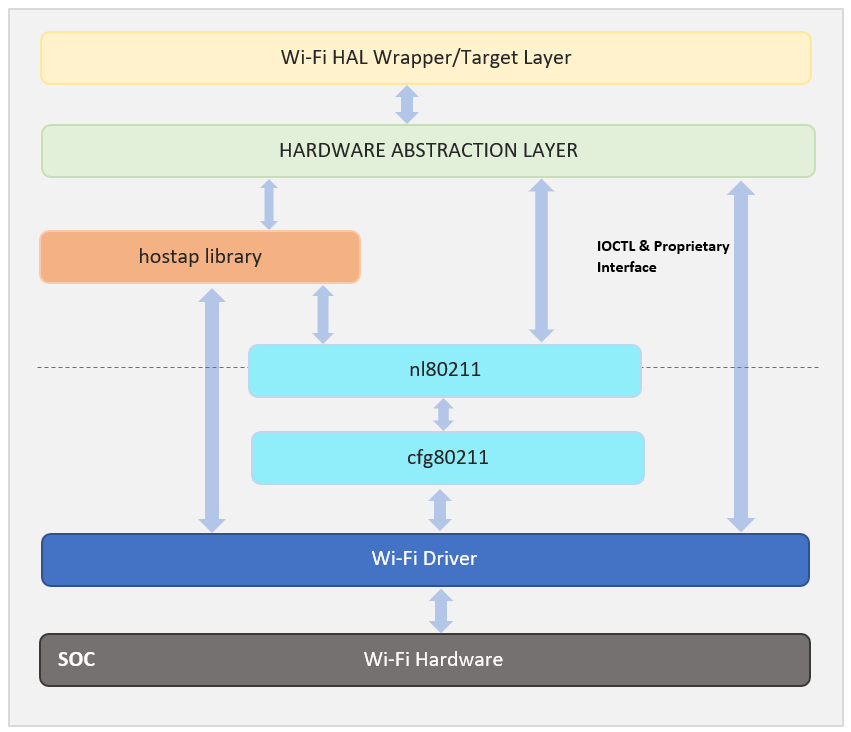
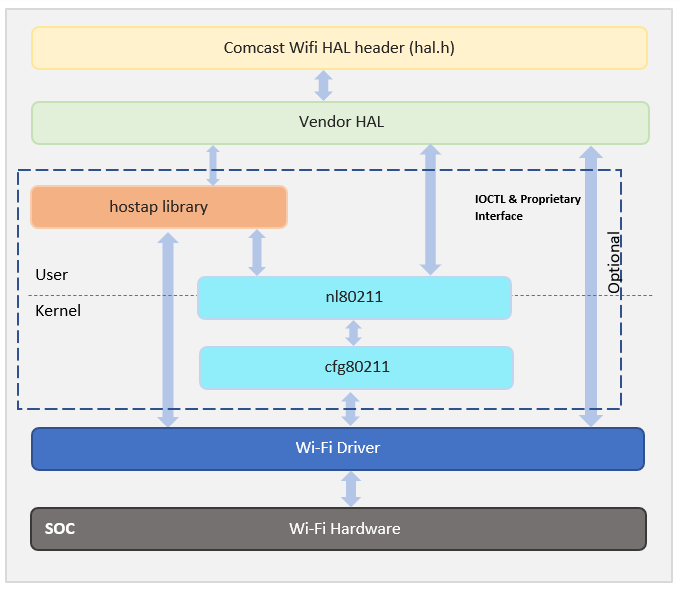
RDKB-43403: Block diagram and review comments updated

diff --git a/docs/pages/halSpec.md b/docs/pages/halSpec.md
@@ -5,7 +5,7 @@
 
 | Date | Author | Comment | Version |
 | --- | --- | --- | --- |
-| 08/16/22 | M. Kandasamy | Block diagram updated | 0.0.1 |
+| 08/16/22 | M. Kandasamy | Block diagram updated | 0.0.2 |
 
 ## Acronyms
 
@@ -23,12 +23,17 @@
 
 The Hardware Abstraction Layer (HAL) is to abstract the RDK Wi-Fi requirements at a general level to allow platform independent control.
 
-The picture below shows the relationship between the `HAL` and the `Kernel` and `WiFi Driver`.
+The picture below shows the relationship between the `HAL`, `Kernel` and the `WiFi Driver`.
 ![WiFi HAL](images/WifiHALDiagram.PNG)
 
-`hostapd` (host access point daemon) is a user space daemon software enabling a network interface card to act as an access point and authentication server
+## Optional Components
 
-`nl80211` is the interface between user space software (iw etc.) and the kernel (cfg80211 and mac80211 kernel modules, and specific drivers)
+The following components are optional and its upto vendors discretion.
+
+- `hostapd` (host access point daemon) is a user space daemon software enabling a network interface card to act as an access point and authentication server
+
+- `nl80211/cfg80211` nl80211 is the interface between user space software (iw etc.) and the kernel (cfg80211 and mac80211 kernel modules, and specific drivers)
+
 
 # Component Runtime Execution Requirements
 
@@ -52,14 +57,14 @@ There is no restriction on the vendor to create any number of threads to meet th
 
 ## Process Model
 
-A single instance is expected to exist. And only once instance will be initialised.
+A single instance is expected to exist. And only one instance will be initialised.
 
 ## Memory Model
 
 Where `HAL` creates any memory, then `HAL` will be expected to own it.
 Where `client` creates memory, then `client` is expected to own it.
 
-Expectation to the rules above are specified in the API documentation.
+Exceptions to these rules can be specified in the API documentation.
 
 ## Power Management Requirements
 
@@ -83,11 +88,11 @@ During callbacks the client is responsible for create a copy of data, unless oth
 
 ## Blocking calls
 
-The blocking calls documented in the API documetation, they are tagged with the `@execution blocks/blocking` token in the documentation.
+None of the calls in the interface should block.
 
 ## Internal Error Handling
 
-All the APIs define a list return codes, each API must be capable of returning all of the codes defined, the `HTS` if possible, will create cases
+All the APIs define a list of return codes, each API must be capable of returning all of the codes defined, the `HTS` if possible, will create cases
 for the error codes to be exercised.
 
 HAL is responsible to handle system errors (e.g., failure of memory allocation, array boundary out of memory, return code check), and returning
@@ -95,15 +100,7 @@ only the fixed returned codes as defined in the `API` specification.
 
 ## Persistence Model
 
-WiFi HAL interface expected to persist configuration set by calls to the HAL interface.
-
-This configuration should also persist if the device firmware upgraded or downgraded.
-
-During the initialization, the driver will retrieve configuration and re-apply it.
-
-The vendor must have the capability of a separate factory reset configuration; this will be configured at factory programming.
-
-A reset flag is normally read during boot initialization and apply the configuration accordingly.
+Wifi HAL configuration will be maintained by upper layer.
 
 # Non functional requirements
 
@@ -114,30 +111,24 @@ Following non-functional requirement should be supported by the component.
 The component should log all the error and critical informative messages.
 This helps to debug/triage the issues and understand the functional flow of the system.
 
-The log files have naming convention depends upon the type of log. 
+The logging should be consistance across all HAL components.
 
-There are few requirements of redirecting logs to specified files.
+If the vendor is going to log then it has to be logged in `wifi_vendor_hal.log` file name.
 
-E.g.
-
-1. Wifi initialization log file name - WiFilog.txt.0
-2. Wifi telemetry related log file name - wifihealth.txt
-3. Device Image version - version.txt
-4. Wifi HAL log file name - wifi_vendor_hal.log
-
+Logging should be defined with log levels as per Linux standard logging.
 ## Memory and performance requirements
 
 During idle and Standby, memory and CPU utilization will be a minimal footprint.
 
-Under maximum load CPU should aim for under 85% usage, and a max memory footprint of xMB.
+Refer to product specification for guidance on maximum CPU load average and memory requirements.
 
 ## Quality Control
 
 The vendor should endeavour to:-
 
-- Run a static analysis tool like Coverity
+- Run a static analysis tool like Coverity etc
 - Have a zero-warning policy with regards to compiling. All warnings should be enabled by default in the makefiles.
-- Use of memory analysis tools like Valgrind are encouraged, or identify leaks or corruptions.
+- Use of memory analysis tools like Valgrind are encouraged, to identify leaks/corruptions.
 - `HAL` Tests will endeavour to create worst case scenarios to assist investigations
 
 ## Licensing
@@ -147,7 +138,7 @@ The vendor should endeavour to:-
 
 ## Build Requirements
 
-The source code should be built under Linux environment using `cmake`, `make`, `gcc`, etc. as required, and would normally be delivered as a library.
+The source code should be built under Linux environment using `cmake`, `make`, `gcc`, etc. as required, and would normally be delivered as a library and source code.
 
 ## Variability Management
 
@@ -156,15 +147,7 @@ The vendor will follow the `Comcast federated delivery model` wherever possible.
 
 Compile time flags `config` flags can control compilation:-
 
-example of this would be:-
-
-```
-#ifdef HUB4 && HUB5 && HUB6
- .. do wifi V6
-#else
- .. no wifi
-#endif
-```
+Example of this would be:-
 
 `config` flags are encouraged, so this can be defined at the top-level compile time
 
@@ -180,7 +163,7 @@ The interface will maintain `getCapabilities()` functionality, and the upper lay
 
 # Interface API Documentation
 
-The interface is documented by Doxygen and will be included with this document.
+The interface is documented by Doxygen and will be included with this release.
 
 ## Theory of operation and key concepts
 
@@ -192,15 +175,12 @@ Covered as per "Description" sections in the API documentation.
 sequenceDiagram
     participant coreThread
     participant Wifi_HAL
-    participant Wifi_Hostap
+   
     participant Wifi_Driver
     participant Linux_System   
     
     coreThread->>Wifi_HAL: wifi_init()
     Wifi_HAL->>Linux_System: init wifi
-    Wifi_HAL->>Wifi_Hostap: eloop_init
-    Wifi_HAL->>Wifi_Hostap: eap_server_register_methods
-
     Wifi_Driver->>Wifi_HAL: return wifi init status
     Wifi_HAL->>coreThread: success
     coreThread->>Wifi_HAL: getHalCapabilty()
@@ -209,14 +189,12 @@ sequenceDiagram
     Wifi_HAL->>coreThread: getHalCapabilty() status
     coreThread->>Wifi_HAL:wifi_setRadioOperatingParameters
     Wifi_HAL->>Wifi_Driver: set radio parameters
-    Wifi_HAL->>Wifi_Hostap: update_hostap_config_params
     Wifi_HAL->>coreThread: success
+    note over Wifi_HAL: System is up and running
     coreThread->>Wifi_HAL: wifi_createVAP()
-    Wifi_HAL->>Linux_System: create interface
     Wifi_HAL->>coreThread: success
-    coreThread->>Wifi_HAL: wifi_run
-    Wifi_HAL->>Wifi_Hostap: eloop_run
-    Wifi_Hostap->>Wifi_Hostap: eloop_run
+   
+  
     
     
 ```
